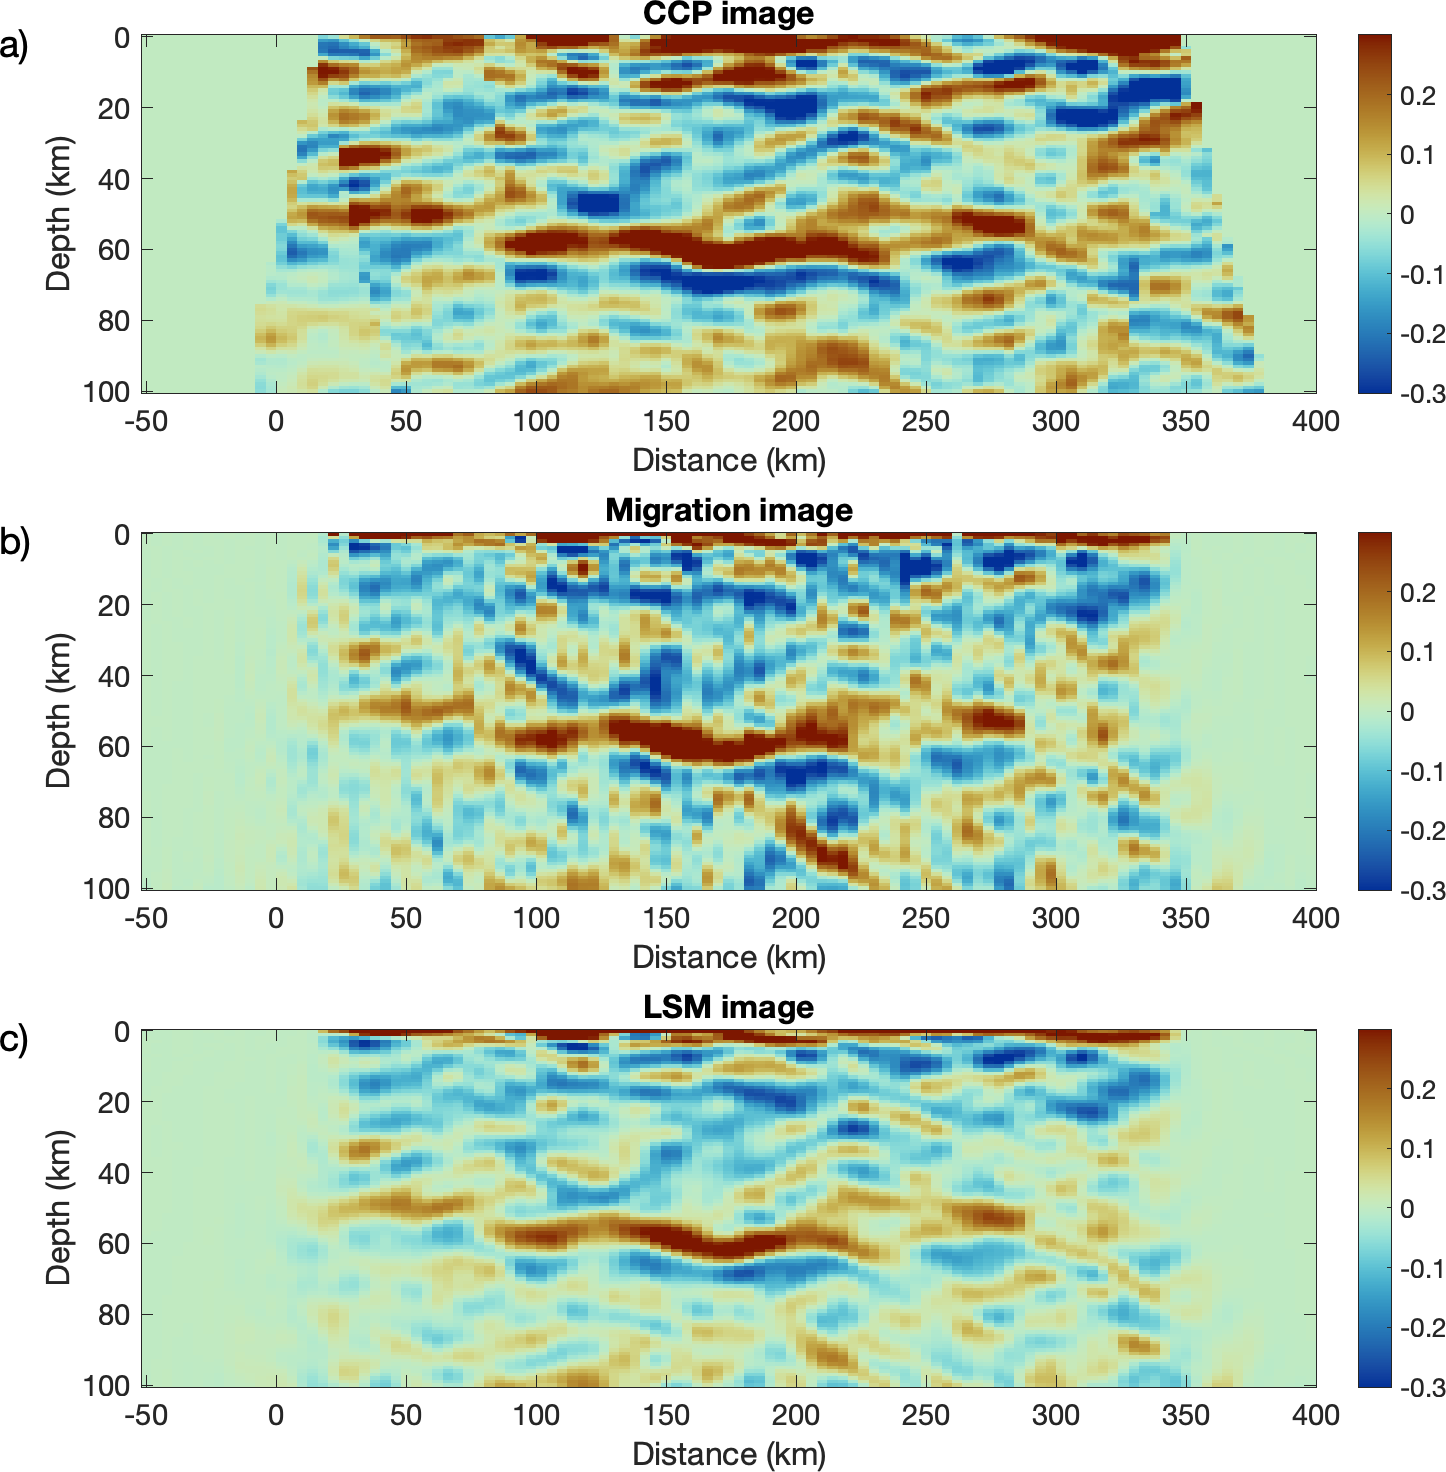
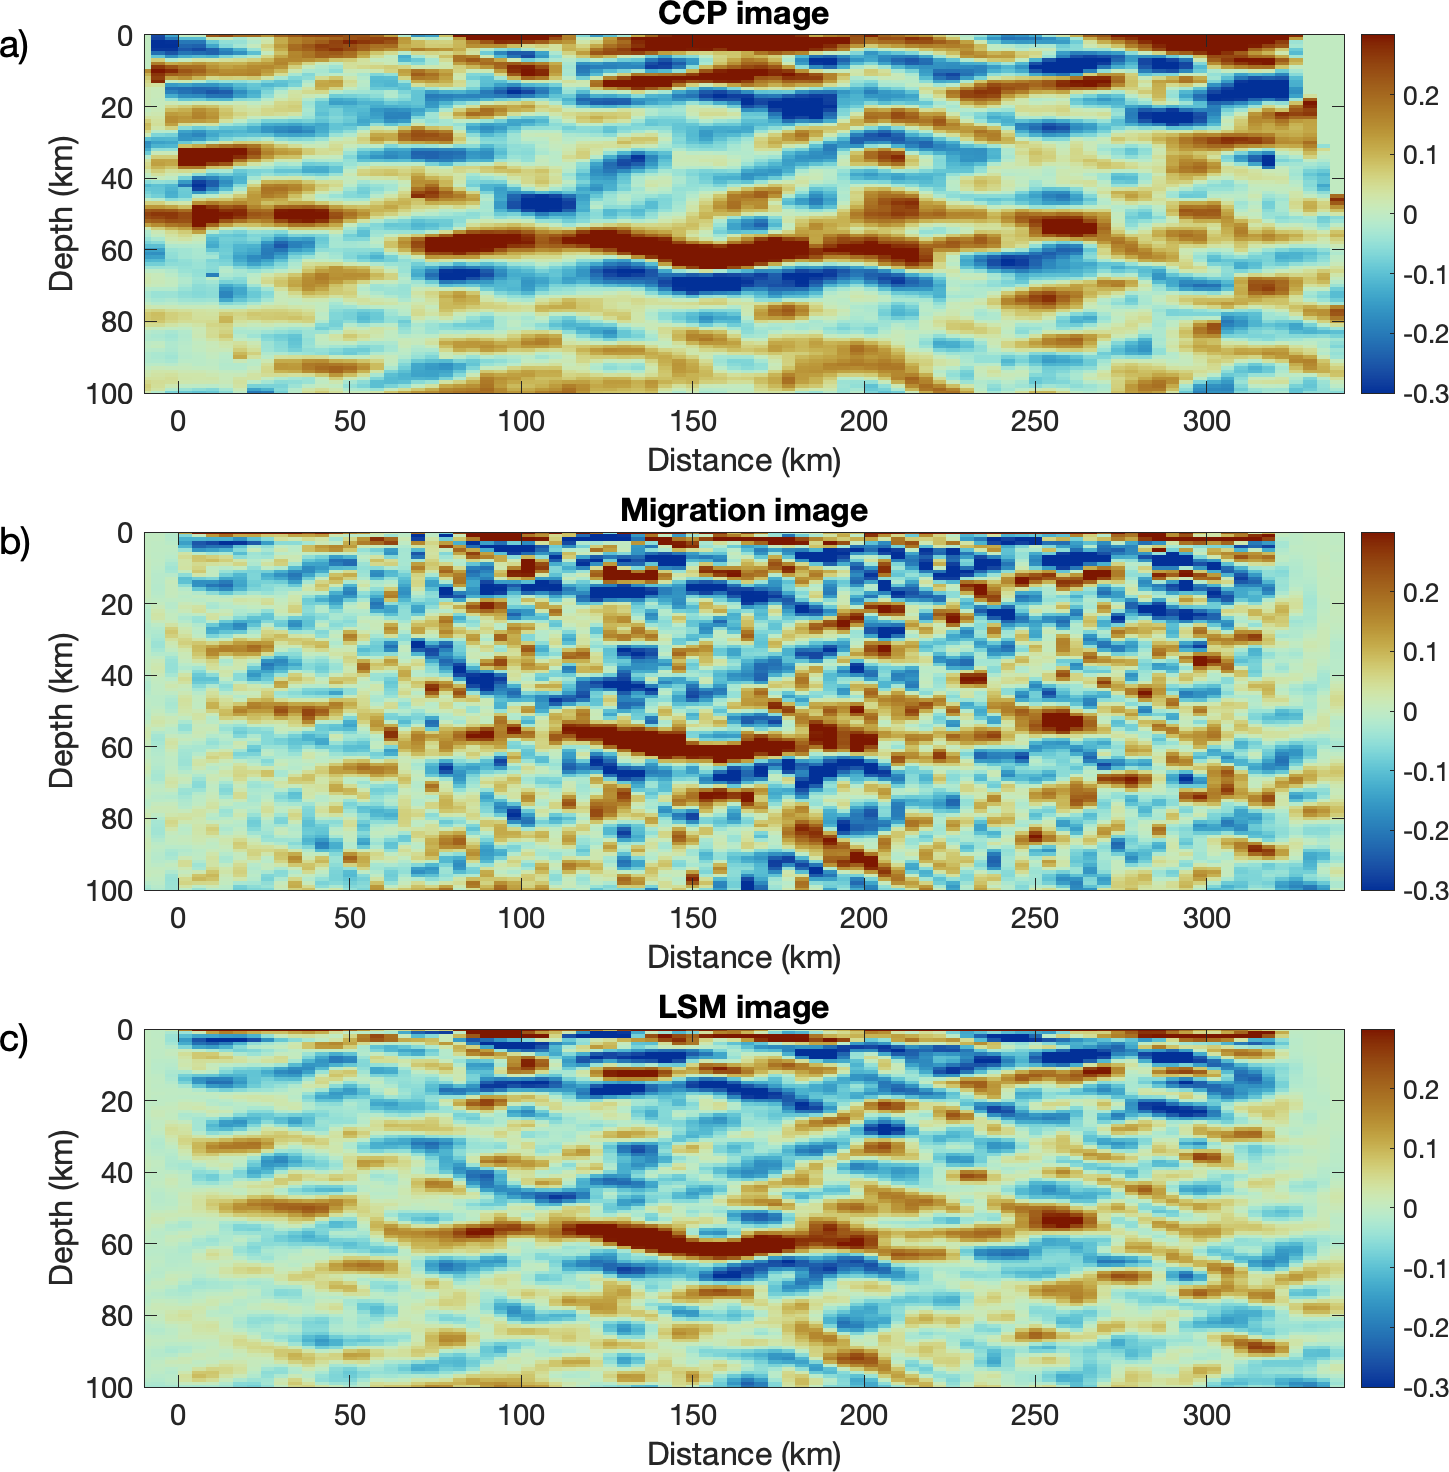
Grid Struct
1. Write function createStruct to construct 2D grid according the array geometry.
2. Update migration demo to replace profile struct with grid struct.
3. Update CCPCommonEventGather and leastSquaresMigration functions accordingly.

diff --git a/utilities/createGrid.m b/utilities/createGrid.m
@@ -1,0 +1,164 @@
+function  gridStruct = createGrid(DataStruct, dx, dy)
+% 从数据结构中提取台站信息
+stationList = getStations(DataStruct);
+stlo = [stationList.stlo]';  % 台站经度
+stla = [stationList.stla]';  % 台站纬度
+originLon=min(stlo);
+originLat=min(stla);
+% 将经纬度转换为笛卡尔坐标（相对最小经纬度）
+[stationX, stationY] = latlon2xy(stlo, stla, originLon, originLat);
+% stationX = stationX-mean(stationX);
+% stationY = stationY-mean(stationY);
+
+% % 计算所有相邻台站之间的欧几里得距离
+% n = length(stationX);
+% distances = zeros(n-1, 1);  % 存储相邻台站之间的距离
+% for i = 1:n-1
+%     distances(i) = sqrt((stationX(i) - stationX(i+1))^2 + (stationY(i) - stationY(i+1))^2);
+% end
+% 
+% % 计算相邻台站的平均距离
+% avgDistance = mean(distances);  % 计算相邻台站的平均距离
+
+% 执行主成分分析（PCA）
+coords = [stationX(:), stationY(:)];
+[coeff, ~, ~] = pca(coords);  % coeff 包含主成分方向
+
+% 主轴（最大方差方向）和次轴（最小方差方向）
+principal_axis = coeff(:,1);  % 主轴
+secondaryAxis = coeff(:,2);  % 次轴
+
+% 计算主成分和次成分的范围 
+projection_on_principal_axis = coords * principal_axis;
+projection_on_secondary_axis = coords * secondaryAxis;
+
+% 台站的投影位置
+rx = [projection_on_principal_axis,zeros(size(projection_on_principal_axis))];
+ry = [zeros(size(projection_on_secondary_axis)),projection_on_secondary_axis];
+% 台站投影位置在原始坐标系中的位置
+rxInOriginalCoord = rx * coeff'; 
+ryInOriginalCoord = ry * coeff'; 
+
+% for n = 1:length(DataStruct)
+%     idx = strcmp({stationList.sta},DataStruct.StationInfo.sta);
+%     DataStruct(n).StationInfo.rx = rx(1,)
+% end
+% 获取台阵的范围
+xpad = 5*dx;
+ypad = 5*dy;
+
+x_min = min(projection_on_principal_axis)-xpad;
+x_max = round(max(projection_on_principal_axis)/dx)*dx+xpad;
+y_min = min(projection_on_secondary_axis)-ypad;
+y_max = round(max(projection_on_secondary_axis)/dy)*dy+ypad;
+
+% 创建网格
+nx = floor((x_max - x_min) / dx) + 1;
+ny = floor((y_max - y_min) / dy) + 1;
+
+% 生成网格点的坐标
+x = linspace(x_min, x_max, nx);
+y = linspace(y_min, y_max, ny);
+[X, Y] = meshgrid(x, y);
+
+% 将网格点从主成分坐标系变换回原始坐标系
+gridPoints = [X(:), Y(:)];
+gridPointsInOriginalCoord = gridPoints * coeff';  % 逆变换
+XInOriginalCoord = reshape(gridPointsInOriginalCoord(:,1),size(X));
+YInOriginalCoord = reshape(gridPointsInOriginalCoord(:,2),size(Y));
+
+% generate points on principle and secondary axes
+principleAxisInOriginalCoord =  x' * coeff(:, 1)';
+secondaryAxisInOriginalCoord =  y' * coeff(:, 2)';
+% shift principle axis to the center of the grid
+shiftVector=[0,mean(y)] * coeff';
+xshift=shiftVector(1);
+yshift=shiftVector(2);
+principleAxisInOriginalCoord = principleAxisInOriginalCoord+[xshift,yshift];
+rxInOriginalCoord(:,1)=rxInOriginalCoord(:,1)+xshift;
+rxInOriginalCoord(:,2)=rxInOriginalCoord(:,2)+yshift;
+% shift rx accordingly
+rx(:,2)=rx(:,2)+mean(y);
+
+[tmplon,tmplat]=xy2latlon(principleAxisInOriginalCoord(:,1),...
+    principleAxisInOriginalCoord(:,2),originLon,originLat);
+principleAxisLatLon = [tmplon,tmplat];
+[tmplon,tmplat]=xy2latlon(secondaryAxisInOriginalCoord(:,1),...
+    secondaryAxisInOriginalCoord(:,2),originLon,originLat);
+secondaryAxisLatLon = [tmplon,tmplat];
+
+% calculate amount of shift in original coordinates
+% shiftVector=[mean(x),mean(y)] * coeff';
+% xshift=shiftVector(1);
+% yshift=shiftVector(2);
+% stationX = stationX-xshift;
+% stationY = stationY-yshift;
+% rxInOriginalCoord(:,1)=rxInOriginalCoord(:,1)-xshift;
+% rxInOriginalCoord(:,2)=rxInOriginalCoord(:,2)-yshift;
+% ryInOriginalCoord(:,1)=ryInOriginalCoord(:,1)-xshift;
+% ryInOriginalCoord(:,2)=ryInOriginalCoord(:,2)-yshift;
+% points_on_principle_axis(:,1)=points_on_principle_axis(:,1)-xshift;
+% points_on_principle_axis(:,2)=points_on_principle_axis(:,2)-yshift;
+% points_on_secondary_axis(:,1)=points_on_secondary_axis(:,1)-xshift;
+% points_on_secondary_axis(:,2)=points_on_secondary_axis(:,2)-yshift;
+% XInOriginalCoord=XInOriginalCoord-xshift;
+% YInOriginalCoord=YInOriginalCoord-yshift;
+
+% 绘制图形
+figure;
+set(gcf,'Position',[0 0 1000 1000],'Color','w')
+hold on;
+
+% 绘制台站的位置
+scatter(stationX, stationY, 'r^', 'filled', 'DisplayName', 'Stations');
+scatter(rxInOriginalCoord(:,1),rxInOriginalCoord(:,2),'b^','DisplayName','Projected X location')
+scatter(ryInOriginalCoord(:,1),ryInOriginalCoord(:,2),'g^','DisplayName','Projected Y location')
+
+% 绘制主轴和次轴方向
+% quiver(mean(gridPointsInOriginalCoord(:,1)), mean(gridPointsInOriginalCoord(:,2)), (x_max-x_min)/2*principal_axis(1), (x_max-x_min)/2*principal_axis(2), ...
+%     'MaxHeadSize', 2, 'LineWidth', 2, 'Color', 'b', 'DisplayName', 'Principal Axis');
+% quiver(mean(gridPointsInOriginalCoord(:,1)), mean(gridPointsInOriginalCoord(:,2)), (y_max-y_min)/2*secondary_axis(1), (y_max-y_min)/2*secondary_axis(2), ...
+%     'MaxHeadSize', 2, 'LineWidth', 2, 'Color', 'g', 'DisplayName', 'Secondary Axis');
+plot(principleAxisInOriginalCoord(:,1),principleAxisInOriginalCoord(:,2),'b','linewidth',2,'DisplayName', 'Principal Axis')
+plot(secondaryAxisInOriginalCoord(:,1),secondaryAxisInOriginalCoord(:,2),'g','linewidth',2,'DisplayName', 'Secondary Axis')
+
+% 绘制网格点的位置
+scatter(XInOriginalCoord(:), YInOriginalCoord(:), 10, 'k', 'filled', ...
+    'DisplayName', 'Grid Points');
+
+% 设置图形
+xlabel('X (km)');
+ylabel('Y (km)');
+legend('show','Location','best');
+axis equal;
+grid on;
+title('Station Positions, PCA Axes, and Grid Points in Original Coordinate System');
+hold off;
+set(gca,'fontsize',14)
+
+% 返回网格的参数
+gridStruct = struct( ...
+    'originLon', originLon, ...
+    'originLat', originLat, ...
+    'originX', 0, ...
+    'originY', 0, ...
+    'X', X, ...
+    'Y', Y, ...
+    'XInOriginalCoord',XInOriginalCoord, ...
+    'YInOriginalCoord', YInOriginalCoord, ...
+    'dx', dx, ...
+    'dy', dy, ...
+    'nx', nx, ...
+    'ny', ny, ...
+    'rx', rx, ...
+    'ry', ry, ...
+    'rxInOriginalCoord',rxInOriginalCoord, ...
+    'ryInOriginalCoord',ryInOriginalCoord, ...
+    'coeff', coeff, ...
+    'principalAxisLatLon', principleAxisLatLon, ...
+    'secondaryAxisLatLon', secondaryAxisLatLon, ...
+    'principleAxisInOriginalCoord', principleAxisInOriginalCoord, ...
+    'secondaryAxisInOriginalCoord', secondaryAxisInOriginalCoord, ...
+    'type', 'PCA' ...
+);
+end

diff --git a/CCP/CCPCommonEventGather.m b/CCP/CCPCommonEventGather.m
@@ -1,4 +1,4 @@
-function ccpResult = CCPCommonEventGather(gather, velocityModel, profileStruct, param)
+function ccpResult = CCPCommonEventGather(gather, velocityModel, gridStruct, param)
 % CCPCommonEventGather  Perform Common Conversion Point stacking (CCP) on seismic data.
 %
 % Usage:
@@ -60,15 +60,9 @@ if isfield(gather(1), 'EventInfo') && isfield(gather(1).EventInfo, 'evid')
 end
 
 %% Unpack Profile and Velocity Model Information
-% Extract line endpoints from profileStruct
-lon1 = profileStruct.line_points(1, 1);
-lat1 = profileStruct.line_points(1, 2);
-lon2 = profileStruct.line_points(end, 1);
-lat2 = profileStruct.line_points(end, 2);
-
 % Unpack velocity model fields
-vp   = velocityModel.vp(:, 1);  % Assuming vp is 1D (velocity at top layer)
-vs   = velocityModel.vs(:, 1);  % Assuming vs is 1D (velocity at top layer)
+vp   = velocityModel.vp(:, 1);  % Assuming vp is 1D
+vs   = velocityModel.vs(:, 1);  % Assuming vs is 1D
 xpad = param.xpad;
 zmax = param.zmax;
 
@@ -119,14 +113,16 @@ dist_projected = zeros(ndep, nrf);
 for k = 1:nrf
     slon_tmp = [cp(k).lonb];
     slat_tmp = [cp(k).latb];
-    data = [slon_tmp(:), slat_tmp(:)];
-    centered_data = data - profileStruct.center;
-    projected_points = profileStruct.center + (centered_data * profileStruct.direction) * profileStruct.direction';
-    slat_projected = projected_points(:, 2);
-    slon_projected = projected_points(:, 1);
-    [deg, ~] = distance(lat1, lon1, slat_projected, slon_projected);
-    dist = deg * 2 * pi * 6371 / 360;
-    dist_projected(:, k) = dist;
+    [rx, ry] = latlonToProjectedCoords(slon_tmp, slat_tmp, gridStruct);
+    dist_projected(:, k) = rx;
+%     data = [slon_tmp(:), slat_tmp(:)];
+%     centered_data = data - profileStruct.center;
+%     projected_points = profileStruct.center + (centered_data * profileStruct.direction) * profileStruct.direction';
+%     slat_projected = projected_points(:, 2);
+%     slon_projected = projected_points(:, 1);
+%     [deg, ~] = distance(lat1, lon1, slat_projected, slon_projected);
+%     dist = deg * 2 * pi * 6371 / 360;
+%     dist_projected(:, k) = dist;
 end
 
 %% CCP Stacking Process

diff --git a/demo/demo_Migration.m b/demo/demo_Migration.m
@@ -57,8 +57,10 @@ EventStationTable = getEventStationTable(DataStruct);
 
 %% 4. 创建速度模型
 % 根据数据和配置文件中的测线长度信息，获取成像剖面的中心和方向等参数
-profileStruct = getImagingProfile(DataStruct, config.profile_length);
-
+% profileStruct = getImagingProfile(DataStruct, config.profile_length);
+dx = 5;
+dy = 5;
+gridStruct = createGrid(DataStruct, dx, dy);
 % 创建或获取速度模型，在后续偏移成像中使用
 velocityModel = getVelocityModel('2D');
 
@@ -85,22 +87,23 @@ for iEvent = 1:length(eventid)
     end
     
     % 根据成像剖面，将台站投影到 profile 上，便于后续空间处理
-    gather = project_stations(gather, profileStruct.center, profileStruct.direction, 1);
-    
-    % 进行射线变换（RadonTransform）以实现数组处理，如围绕某一时距-速度域的滤波等
+%     gather = project_stations(gather, profileStruct.center, profileStruct.direction, 1);
+
+    % 进行拉东变换（RadonTransform）以实现台阵处理
     gather = radonTransform(gather, RadonParam);
     
     % 设置反褶积参数，此处启用 radonfilter，进一步提升信号质量
     DeconvParam.radonfilter = true;
     
-    % 对数据进行反褶积处理，以获取更清晰的波形特征
+    % 对数据进行反褶积处理，以获取接收函数
     gather = deconv(gather, DeconvParam);
     
-    % 调用 CCPCommonEventGather 进行CCP成像
-    ccpResult = CCPCommonEventGather(gather,velocityModel, profileStruct, MigParam);
+    % 调用 CCPCommonEventGather 进行共转换点叠加成像
+    ccpResult = CCPCommonEventGather(gather,velocityModel, gridStruct, MigParam);
     dimg(:,:,nMigratedEvents) = ccpResult.img;
 
-    migResult = leastSquaresMig(gather, velocityModel, profileStruct, MigParam);
+    % 调用 leastSquaresMig 进行偏移成像
+    migResult = leastSquaresMig(gather, velocityModel, gridStruct, MigParam);
     
     % 将本次事件的成像结果累积到 dmig 和 dmigls 中
     dmig(:, :, nMigratedEvents)   = migResult.mig;

diff --git a/imaging/leastSquaresMig.m b/imaging/leastSquaresMig.m
@@ -1,4 +1,4 @@
-function MigResult = leastSquaresMig(gather, velocityModel, profileStruct, param)
+function MigResult = leastSquaresMig(gather, velocityModel, gridStruct, param)
 % LEASTSQUARESMIG  Perform least squares migration (LSM) on seismic data.
 %
 % Usage:
@@ -87,10 +87,10 @@ end
 %  (1) Unpack profile & velocity model info
 % -------------------------------------------------------------------------
 % Example usage of profileStruct: (lon1, lat1) to (lon2, lat2)
-lon1 = profileStruct.line_points(1, 1);
-lat1 = profileStruct.line_points(1, 2);
-lon2 = profileStruct.line_points(end, 1);
-lat2 = profileStruct.line_points(end, 2);
+lon1 = gridStruct.principalAxisLatLon(1, 1);
+lat1 = gridStruct.principalAxisLatLon(1, 2);
+lon2 = gridStruct.principalAxisLatLon(end, 1);
+lat2 = gridStruct.principalAxisLatLon(end, 2);
 
 evla = gather(1).EventInfo.evla;
 evlo = gather(1).EventInfo.evlo;
@@ -105,6 +105,16 @@ if dist2 > dist1
     incidence_direction = 1;
 else
     incidence_direction = -1;
+end
+
+% project to profile
+stla = cellfun(@(stationinfo) stationinfo.stla, {gather.StationInfo}, 'UniformOutput', false);
+stlo = cellfun(@(stationinfo) stationinfo.stlo, {gather.StationInfo}, 'UniformOutput', false);
+stlo = cell2mat(stlo)';
+stla = cell2mat(stla)';
+[rx, ry] = latlonToProjectedCoords(stlo, stla, gridStruct);
+for n=1:length(gather)
+    gather(n).RF.rx = rx(n);
 end
 
 % If you need to compute great-circle distances, do so here,

diff --git a/visualization/plotCCPMigrationResults.m b/visualization/plotCCPMigrationResults.m
@@ -2,6 +2,7 @@ function plotCCPMigrationResults(dimg,dmig,dmigls,x,z)
 d2dccp=mean(dimg,3);
 d2dmig=mean(dmig,3);
 d2dlsm=mean(dmigls,3);
+xmin = min(x);
 xmax = max(x);
 % load colormap
 cmap = load('./visualization/colormap/roma.mat');
@@ -9,7 +10,7 @@ figure();
 set(gcf,'Position',[100 100 800 1200],'color','w')
 subplot(311)
 imagesc(x,z,d2dccp/max(abs(d2dccp(:)))); hold on;
-axis([0 xmax 0 100])
+axis([xmin xmax 0 100])
 xlabel('Distance (km)');
 ylabel('Depth (km)');
 title('CCP image')
@@ -21,7 +22,7 @@ text(-0.12,0.98,'a)','Units','normalized','FontSize',18)
 
 subplot(312)
 imagesc(x,z,d2dmig/max(abs(d2dmig(:)))); hold on;
-axis([0 xmax 0 100])
+axis([xmin xmax 0 100])
 xlabel('Distance (km)');
 ylabel('Depth (km)');
 title('Migration image')
@@ -32,7 +33,7 @@ text(-0.12,0.98,'b)','Units','normalized','FontSize',18)
 
 subplot(313)
 imagesc(x,z, d2dlsm/max(abs(d2dlsm(:)))); hold on;
-axis([0 xmax 0 100])
+axis([xmin xmax 0 100])
 xlabel('Distance (km)');
 ylabel('Depth (km)');
 title('LSM image')

diff --git a/utilities/latlonToProjectedCoords.m b/utilities/latlonToProjectedCoords.m
@@ -1,0 +1,20 @@
+function [rx, ry] = latlonToProjectedCoords(stlo, stla, gridStruct)
+    % 将经度和纬度合并为一个矩阵
+%     stla = cellfun(@(stationinfo) stationinfo.stla, {gather.StationInfo}, 'UniformOutput', false);
+%     stlo = cellfun(@(stationinfo) stationinfo.stlo, {gather.StationInfo}, 'UniformOutput', false);
+%     stlo = cell2mat(stlo)';
+%     stla = cell2mat(stla)';
+
+    % 将经纬度转换为笛卡尔坐标系
+    [stationX, stationY] = latlon2xy(stlo, stla, gridStruct.originLon, gridStruct.originLat);
+    
+    % 执行PCA分析
+    coords = [stationX(:), stationY(:)];
+    projection_on_principal_axis = coords * gridStruct.coeff(:, 1);  % 主轴方向投影
+    projection_on_secondary_axis = coords * gridStruct.coeff(:, 2);  % 次轴方向投影
+
+    % 台站投影位置
+    rx = projection_on_principal_axis; % 主轴上的投影
+    ry = projection_on_secondary_axis; % 次轴上的投影
+
+end

diff --git a/utilities/xy2latlon.m b/utilities/xy2latlon.m
@@ -1,0 +1,7 @@
+ % Sep. 4, 2017, Yunfeng Chen, Global Seismology Group, University of
+% Alberta
+% convert x y to lat lon
+function [lon,lat] = xy2latlon(x,y,lonmin,latmin)
+dconst=6378.0*pi/180.0;
+lat=y/dconst+latmin;
+lon=x./dconst./cos(lat/180.*pi)+lonmin;
